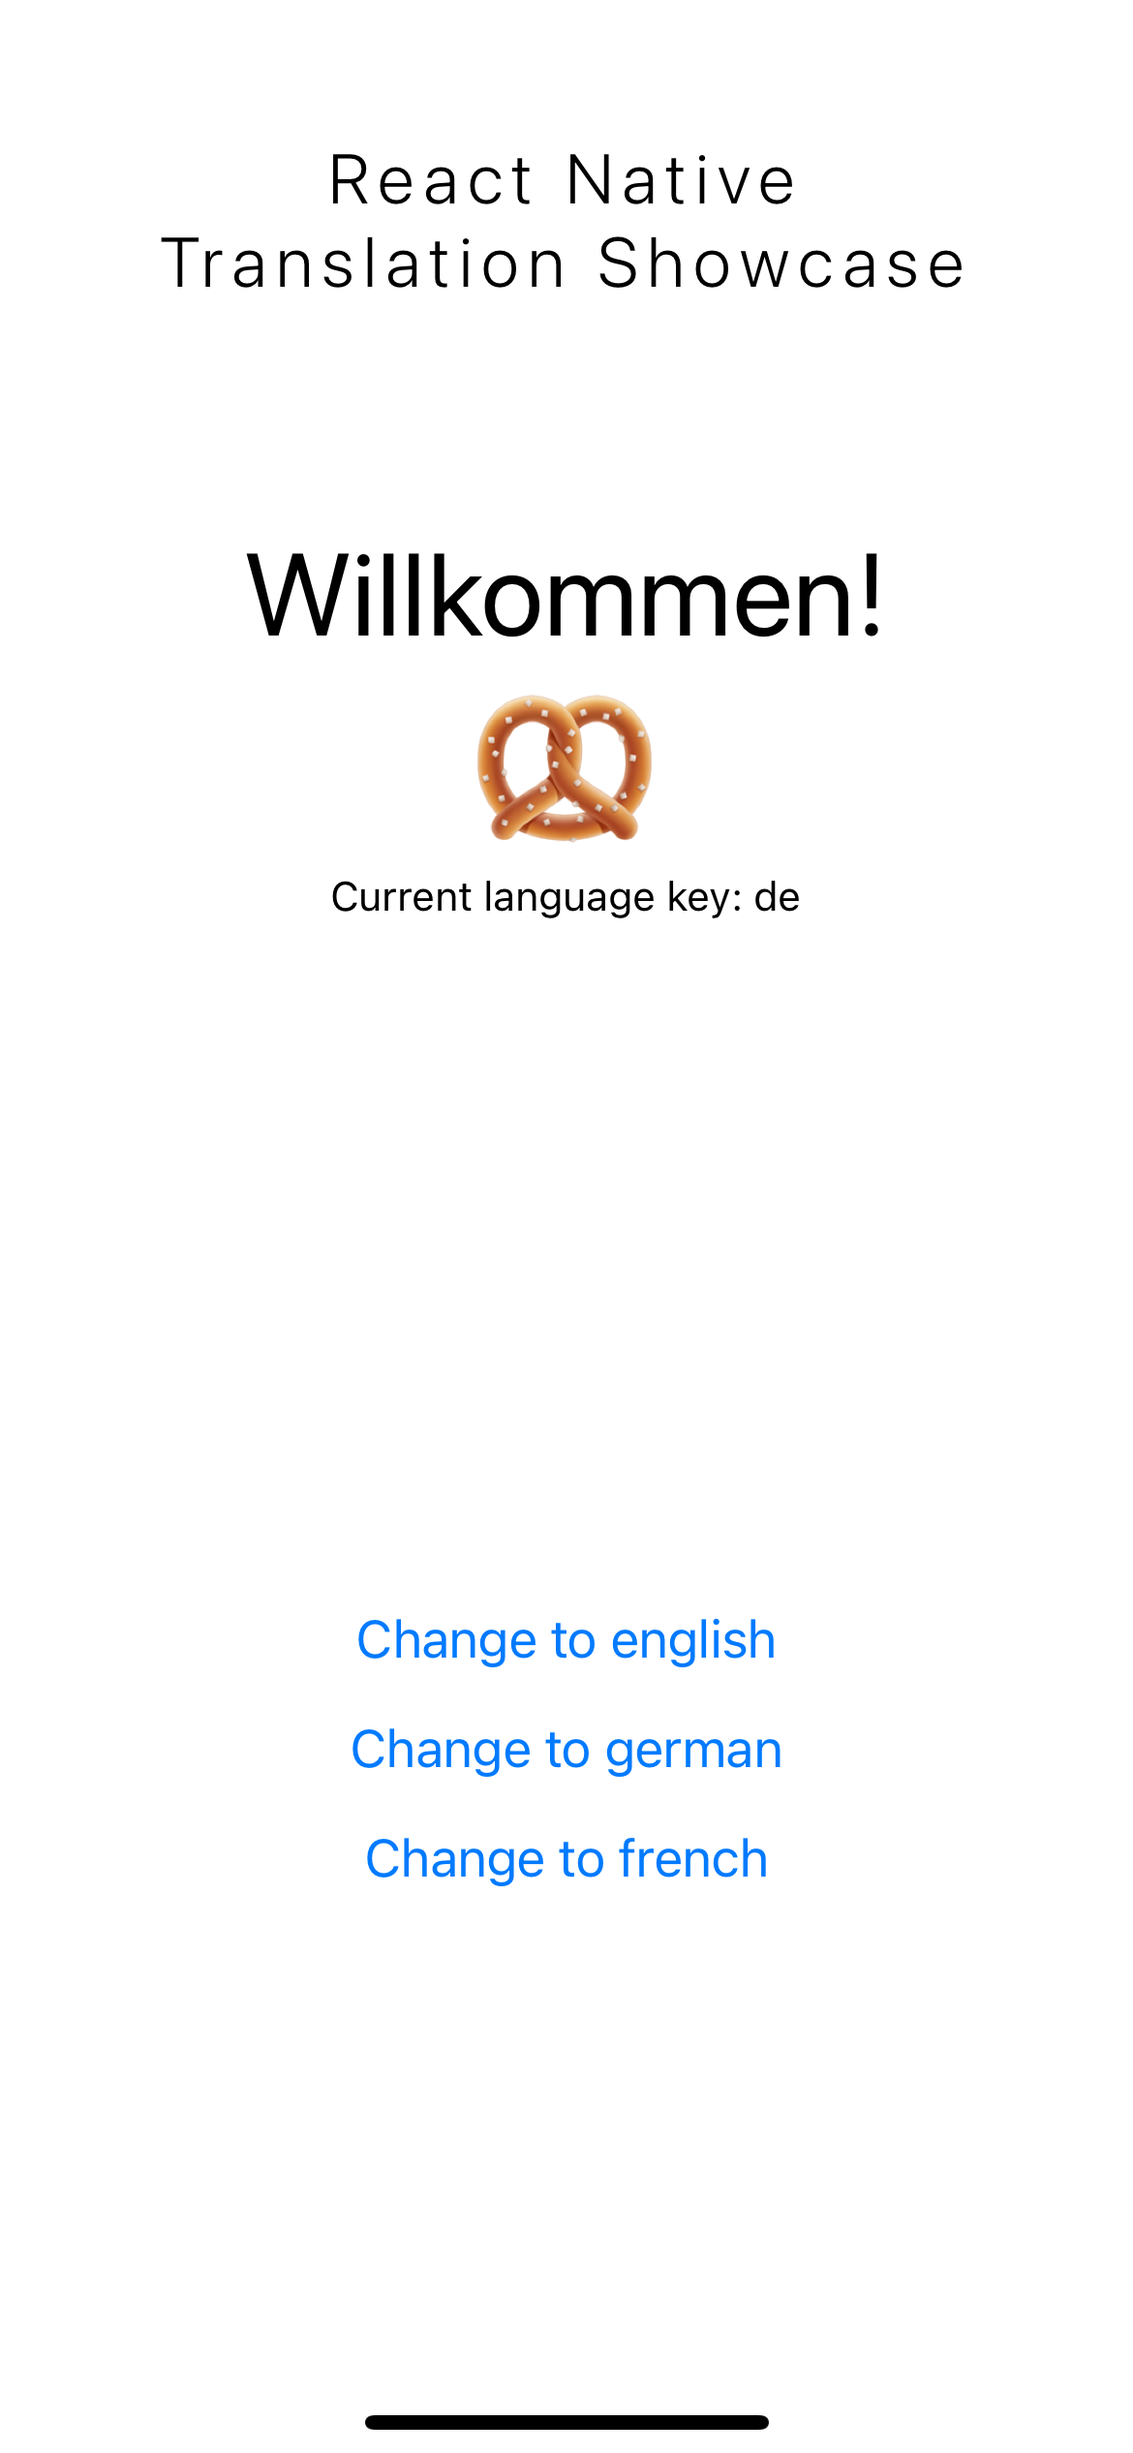
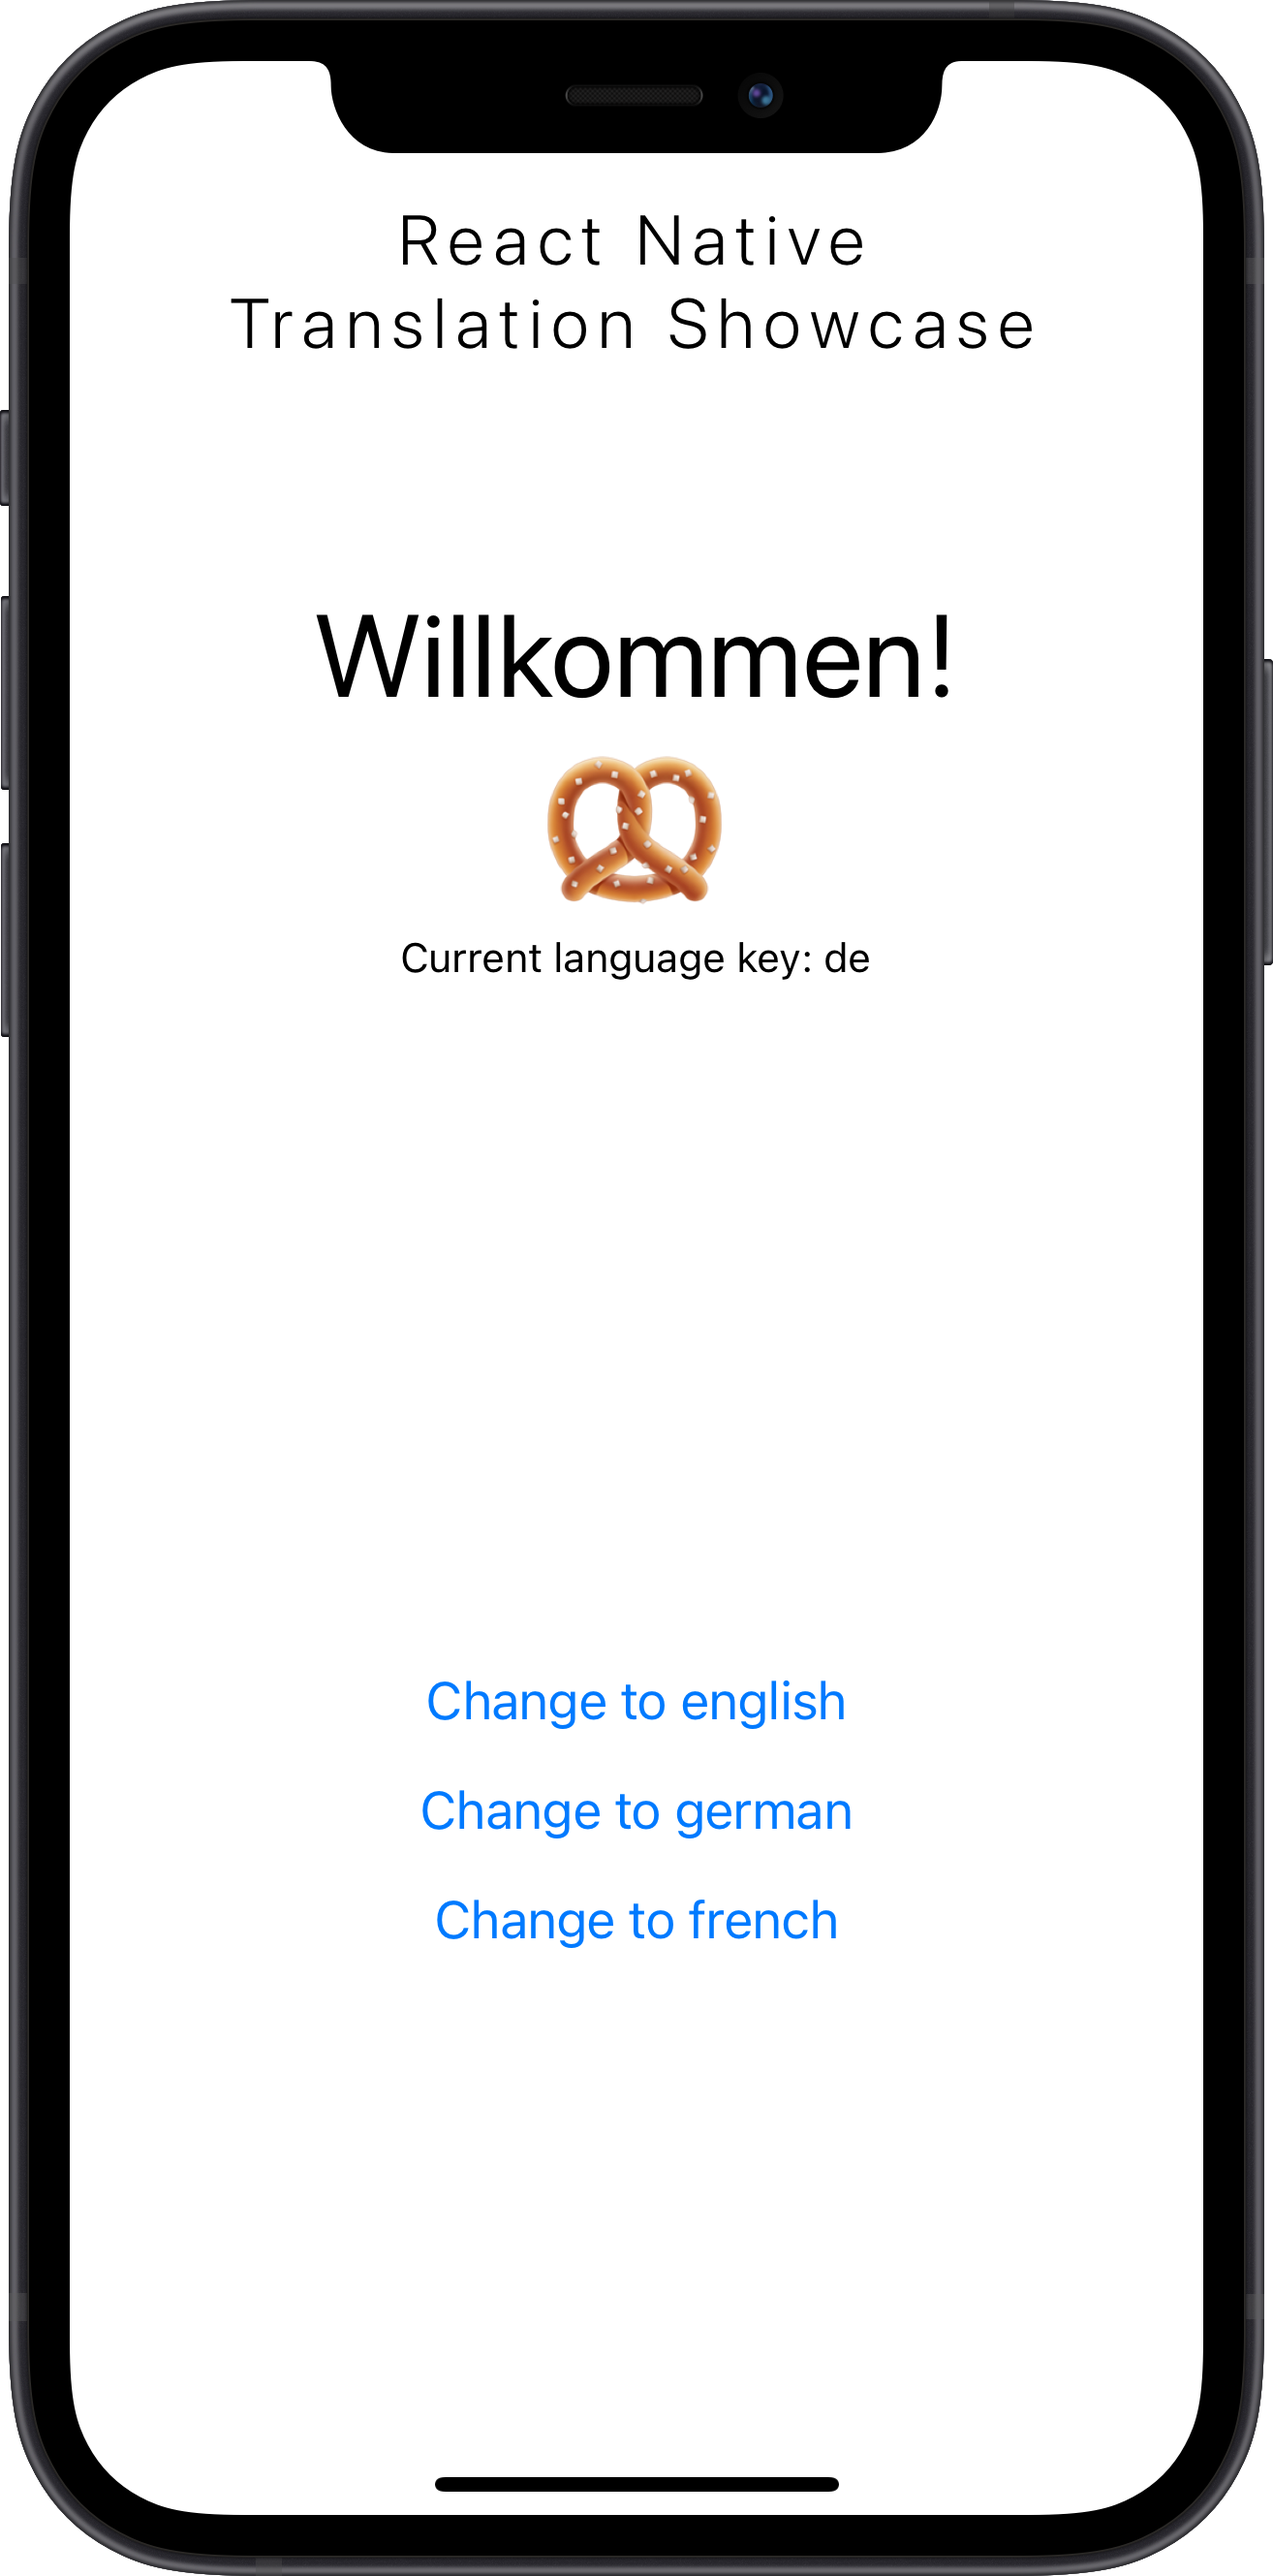
Use fastlane frameit to add frames to screenshots

Changed region(s): [[0.0, 0.0, 1.0, 1.0], [0.2154, 0.2184, 0.8, 0.3744], [0.3077, 0.6552, 0.6769, 0.78]]

diff --git a/README.md b/README.md
@@ -7,7 +7,7 @@ Also contains a small React Native app that uses the react-i18n library to provi
 [<img src="docs/Screenshot_de.png" width="200" />](docs/Screenshot_de.png)
 [<img src="docs/Screenshot_fr.png" width="200" />](docs/Screenshot_fr.png)
 
-Via the `NativeModules`, the device language can be obtained and the app will be automatically translated to the respective language. If the specified language is not available, the app will fallback to English.
+Via the `NativeModules`, the device language can be obtained and the app will be automatically translated to the respective language. If the specified language is not available, the app will fallback to English. The following example shows the app with Spanish (es) as device language - the app is shown in English due to the fallback.  
 
 [<img src="docs/Screenshot_es.png" width="200" />](docs/Screenshot_es.png)
 
